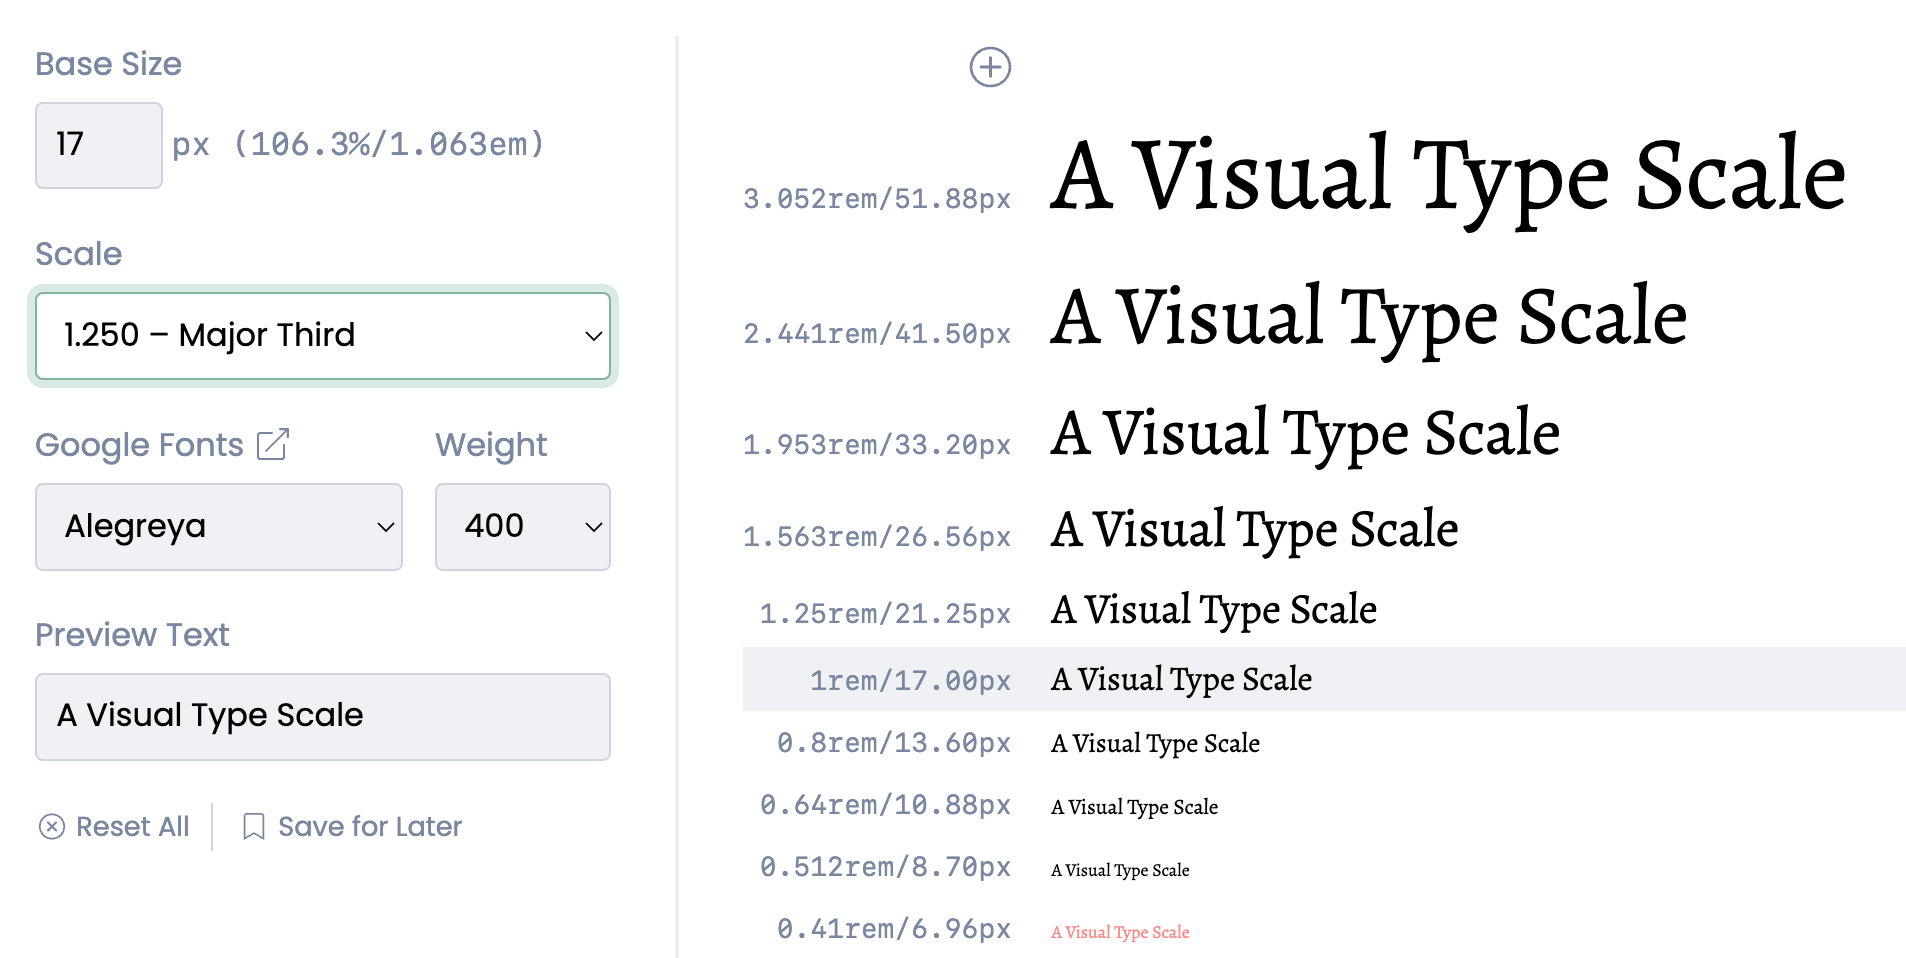
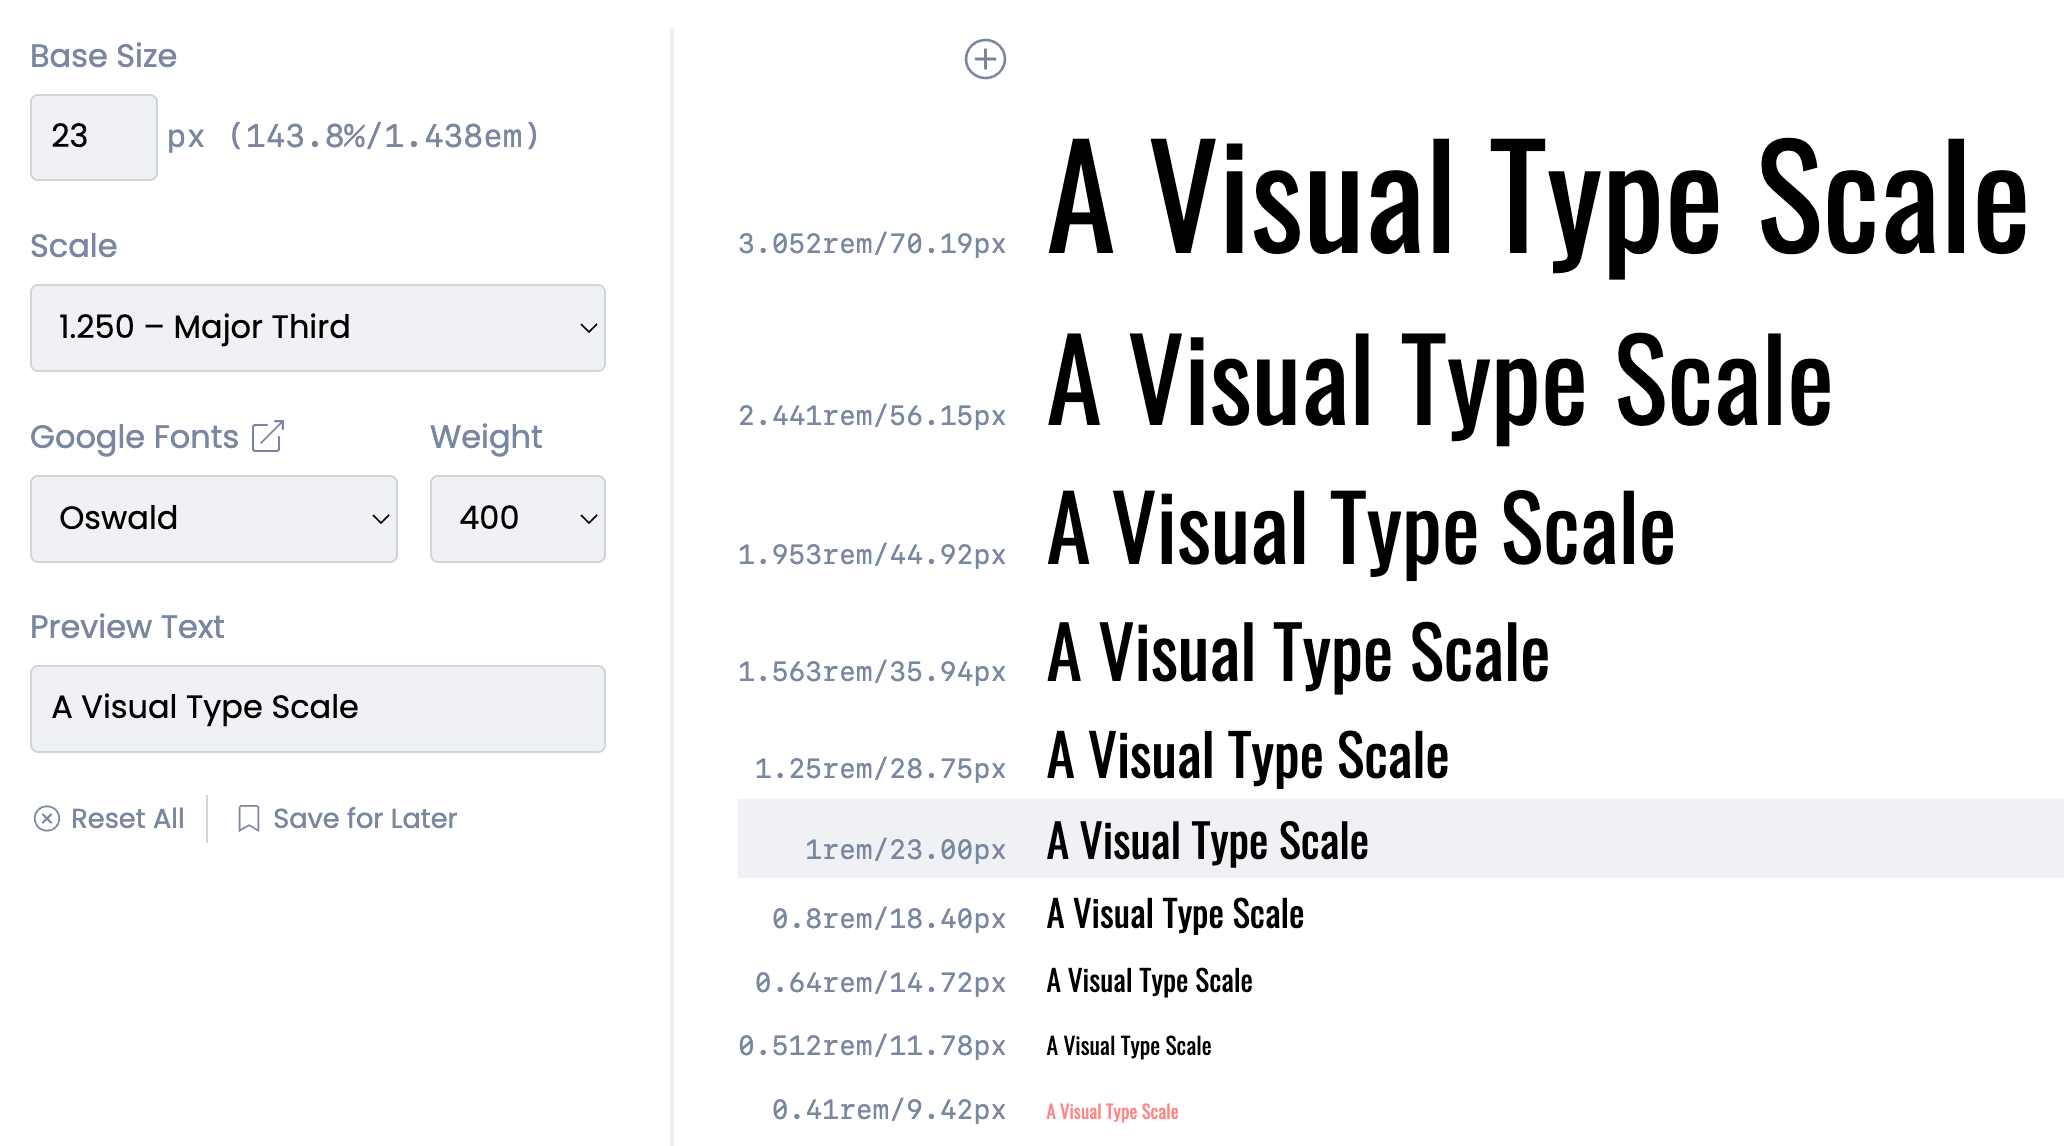
Typography

diff --git a/cf_intro.html b/cf_intro.html
@@ -239,6 +239,11 @@
                 alt="Inspiration Board (mood board)">
 
             <h2>Typography</h2>
+            I used a really nice tool called type-scale.com to check sizes for two typefaces, althouth the tool uses px
+            as
+            the dimensions. If apple uses 17pt for
+            the body and 12pt = 16px that would convert to (16px/12pt) * 17pt = 23px to be entered into the calculator
+            as the body font which gives the following when using the Major Third scale
             <h3>Heading Typeface</h3>
             <img class="image-50" src="img/ui-productivity/typography-choice-1.png" alt="Oswald Typeface"
                 style="margin-left: auto; margin-right: auto; display: block; padding-top: 5%;">
